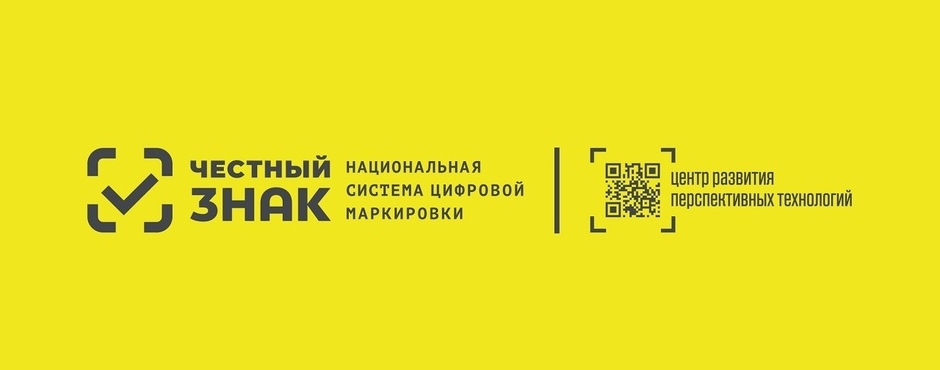
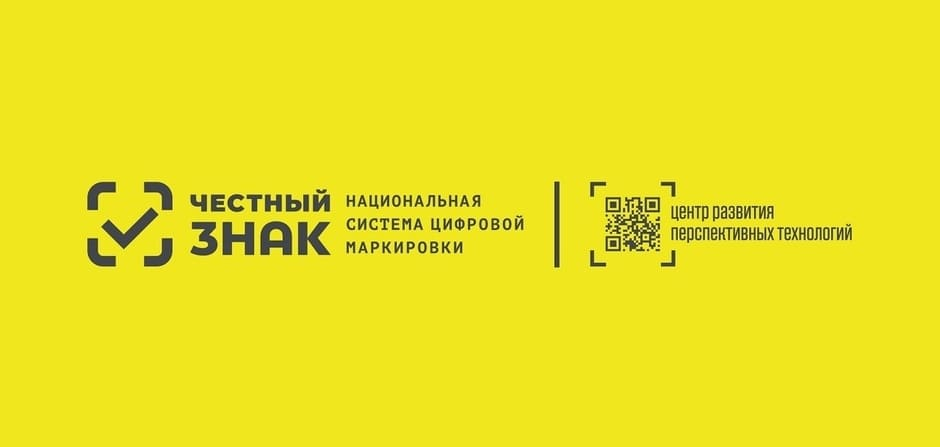
фото

diff --git a/index.html b/index.html
@@ -69,11 +69,8 @@
                          alt="Логотип компании 'ЕГАИС'">
                 </li>
                 <li class="slide"><img src="./img/slider-2.jpeg" alt="Логотип компании 'Честный знак'"></li>
-                <li class="slide"><img src="./img/slider-3.jpg"
+                <li class="slide"><img src="./img/slider-3.jpeg"
                                        alt="Логтип компании 'Меркурий'">
-                </li>
-                <li class="slide"><img src="./img/slider-4.png"
-                                       alt="Электронная подпись">
                 </li>
             </ul>
         </div>
@@ -145,7 +142,7 @@
 
 </main>
 
-<footer class="page-footer">
+<footer class="page-footer" id="contacts">
 
     <div class="container">
         <div class="page-footer__wrapper">

diff --git a/style/style.css b/style/style.css
@@ -200,9 +200,8 @@ img {
 }
 
 .slide--active img {
-    height: 370px;
+    height: 447px;
     width: 100%;
-    object-fit: cover;
 }
 
 /* About */
